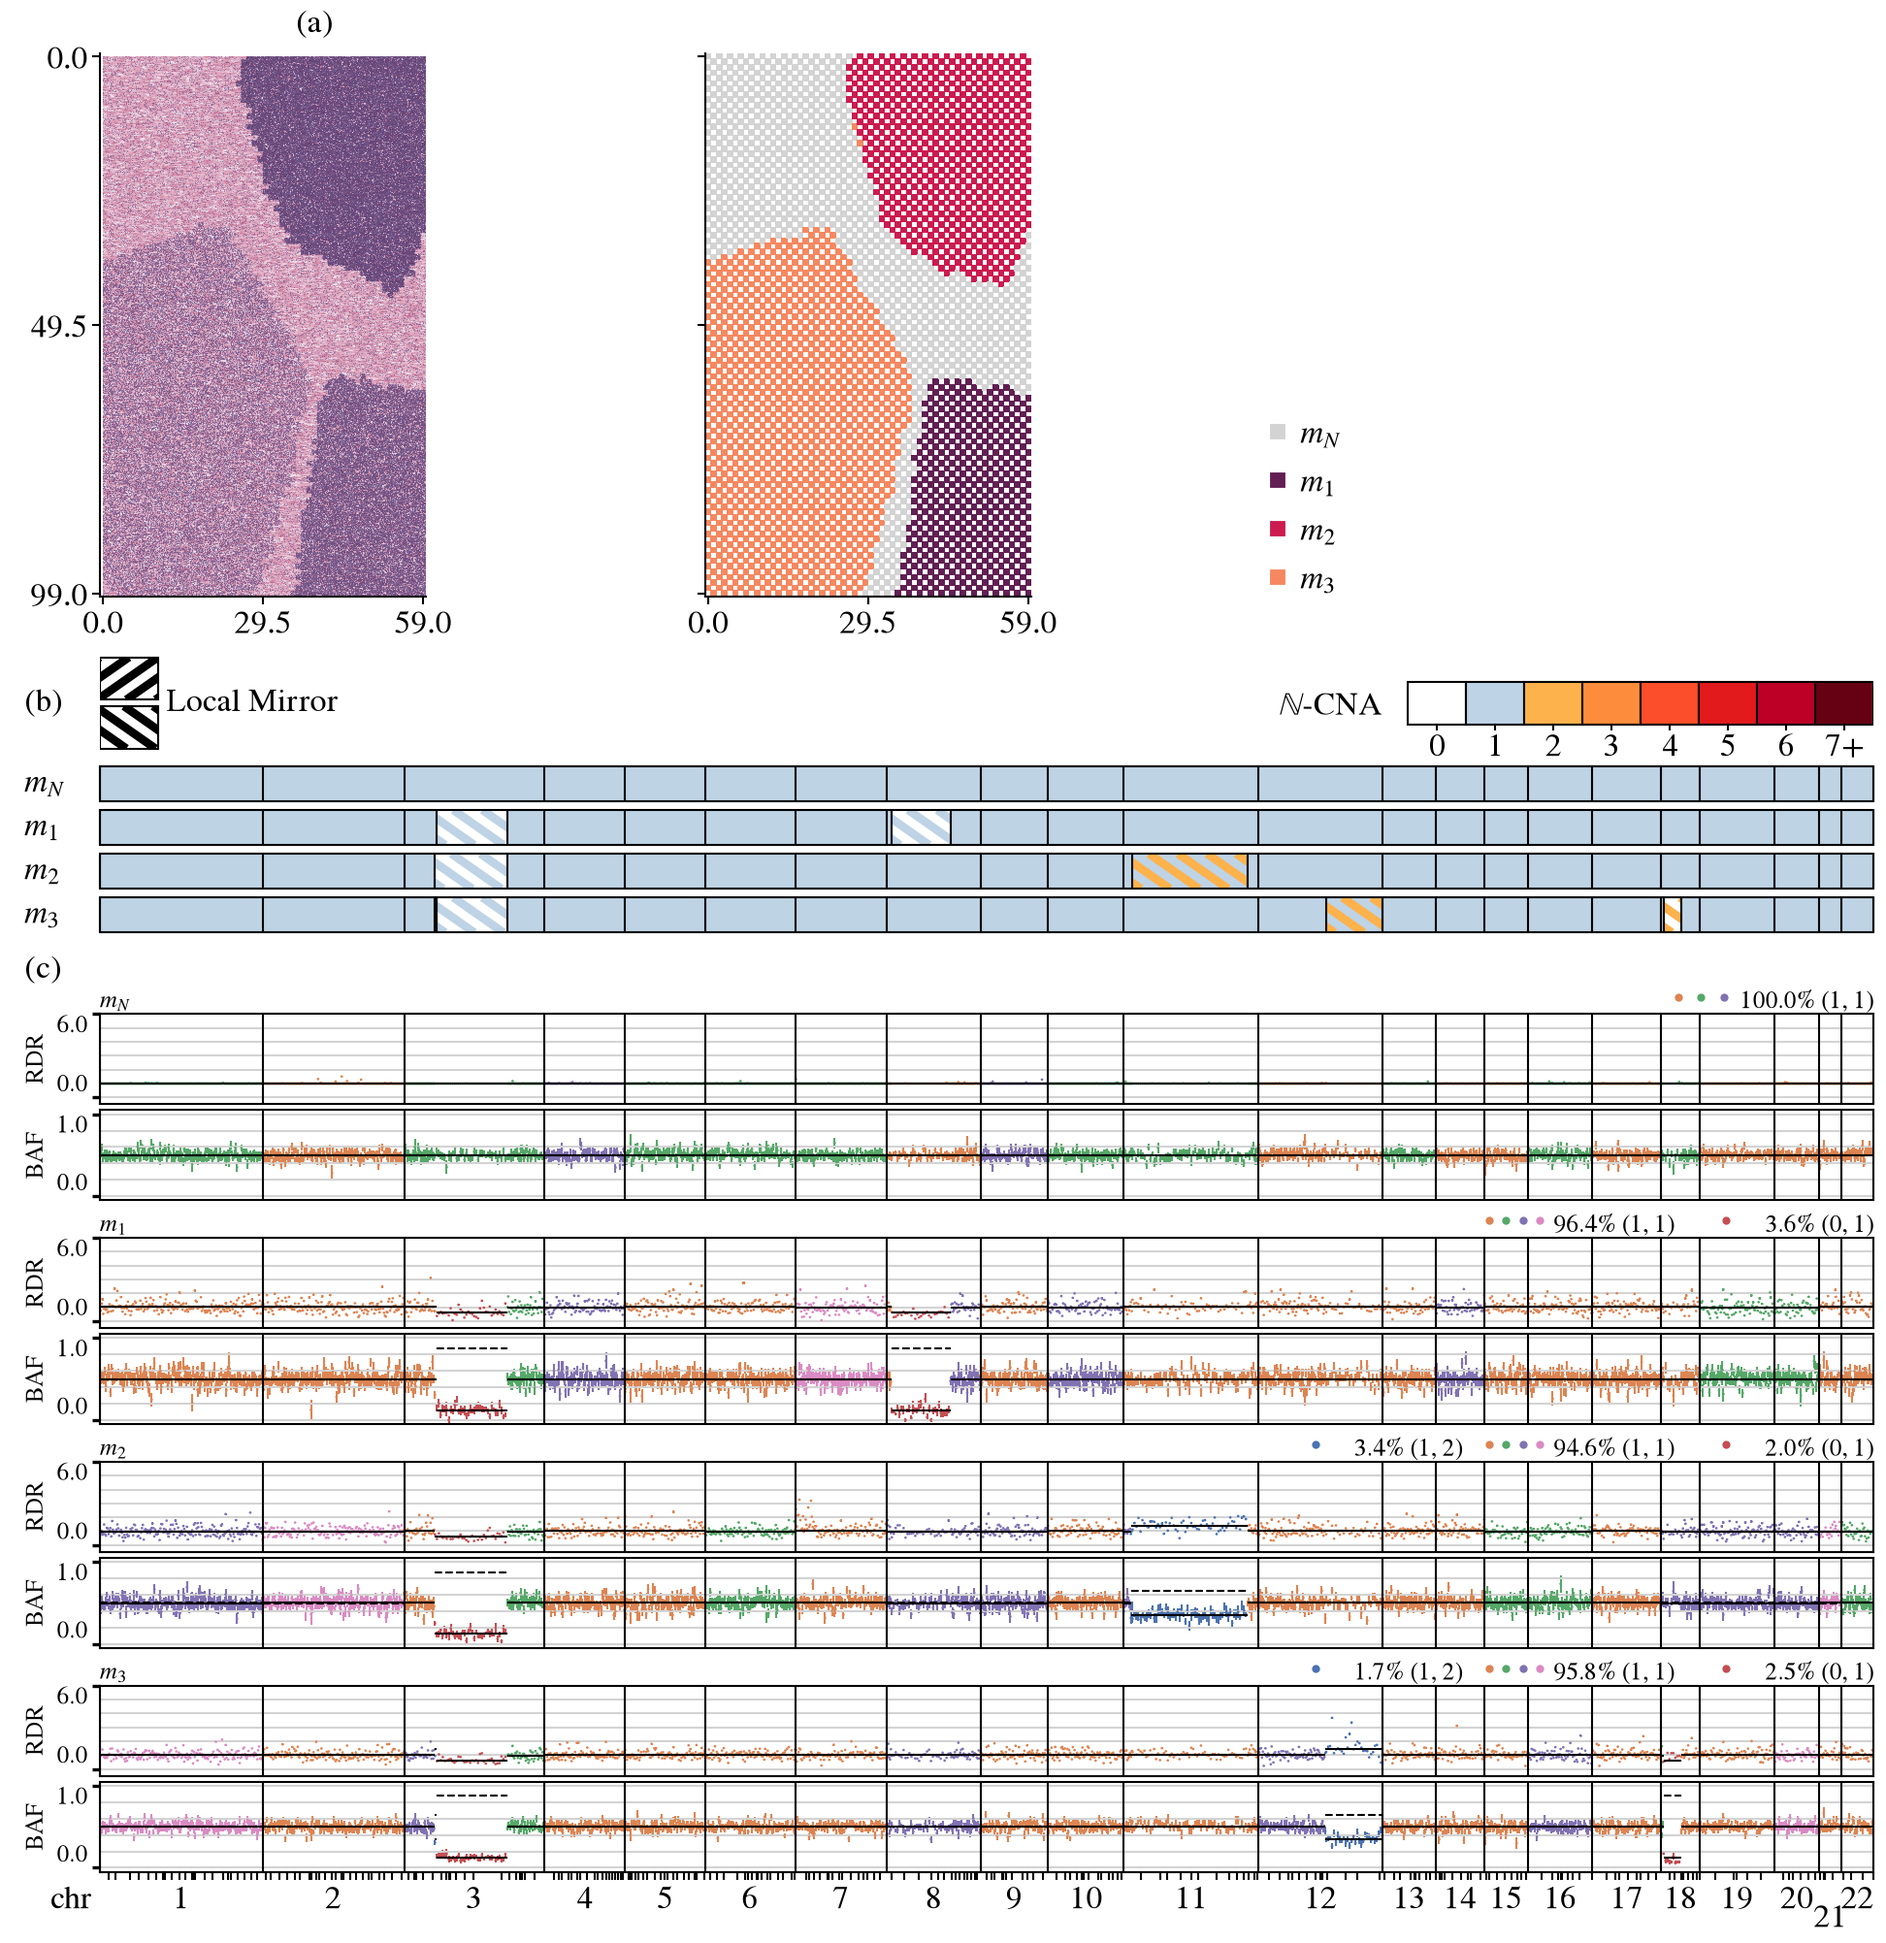
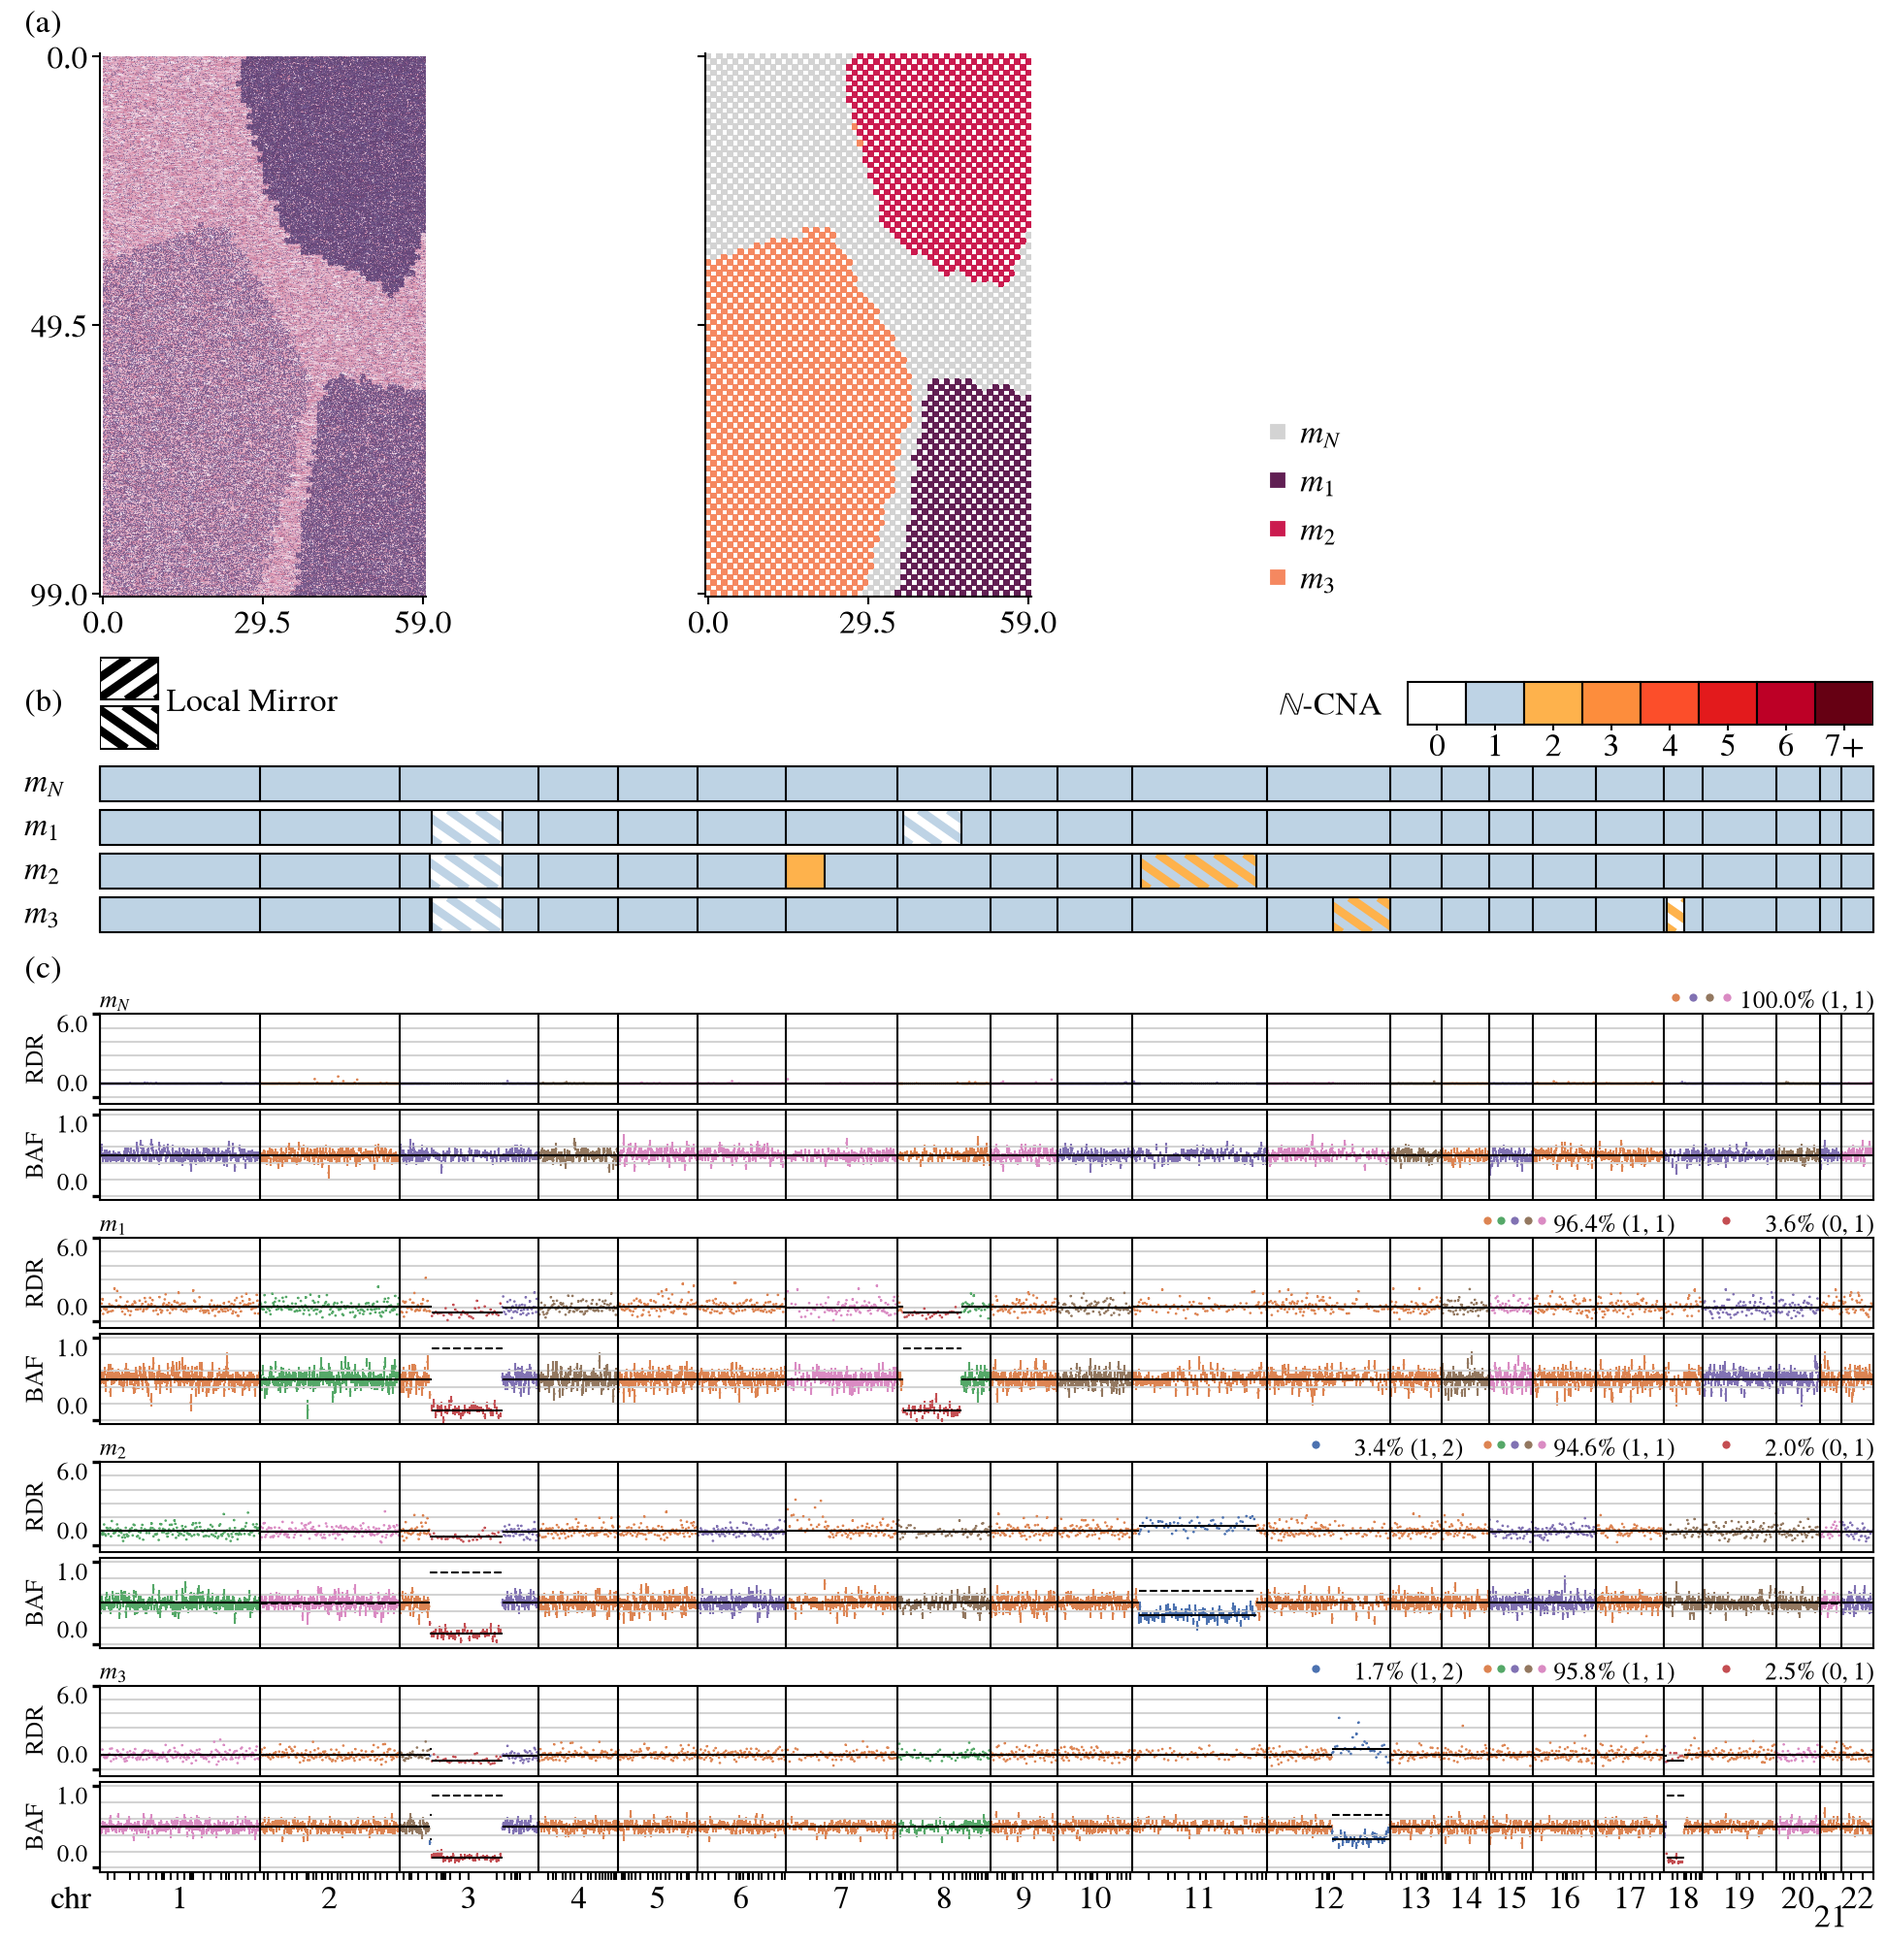
combined.png redrawn: (a)'s letter in (b)'s and (c)'s column; the stacked-page test follows the shift
Rendered at 2a6f426 (clean). The run reproduces clone ARI 0.9798; its copy
decode differs from the four runs before it (copy ARI pf 0.9730 against
0.9335) with no change on the run's path: #704's wall-clock budget, noted
there. test_the_combined_page_is_the_two_figures_stacked now holds (a) to
the spatial figure's size and height, one shift for both maps, and the
slide on the genomic axes' left edge.

Claude-Session: https://claude.ai/code/session_01JXaY8ogGJw3Lo2bAgEaAaH

diff --git a/tests/test_combined_figure.py b/tests/test_combined_figure.py
@@ -378,7 +378,8 @@ def test_the_combined_page_is_the_two_figures_stacked(
     (a) to (c).
 
     (a)'s slide and clones sit where the spatial figure puts them, to a
-    pixel, measured from the head: the page is the spatial figure over a
+    pixel, measured from the head, but for one shift across: the slide's left
+    edge on the genomic axes' (#745). The page is the spatial figure over a
     genomic one drawn the rest of the height.
     """
     import matplotlib.pyplot as plt
@@ -395,16 +396,23 @@ def test_the_combined_page_is_the_two_figures_stacked(
     )
     assert sorted(t.get_text() for t in combined.texts) == ["(a)", "(b)", "(c)"]
 
+    renderer = combined.canvas.get_renderer()
     placed = combined.get_axes()[-2:]
+    genomic = [ax for ax in combined.get_axes()[:-2] if ax.axison]
+    left = min(ax.get_window_extent(renderer).x0 for ax in genomic)
+    shifts = []
     for new, old in zip(placed, spatial.get_axes()[:2], strict=True):
-        here = new.get_window_extent(combined.canvas.get_renderer())
+        here = new.get_window_extent(renderer)
         there = old.get_window_extent(spatial.canvas.get_renderer())
         head = combined.bbox.height - spatial.bbox.height
+        shifts.append(here.x0 - there.x0)
         np.testing.assert_allclose(
-            (here.x0, here.y0 - head, here.width, here.height),
-            there.bounds,
+            (here.y0 - head, here.width, here.height),
+            (there.y0, there.width, there.height),
             atol=1.0,
         )
+    assert shifts[0] == pytest.approx(shifts[1], abs=1.0)
+    assert placed[0].get_window_extent(renderer).x0 == pytest.approx(left, abs=1.0)
 
     plt.close(combined)
     plt.close(spatial)

diff --git a/docs/plots/paper/README.md b/docs/plots/paper/README.md
@@ -1,11 +1,11 @@
 # Paper figures: dev_tree_1s_easy r0 (7ba9b01f)
 
 **TL;DR:** clone ARI 0.9798, copy ARI (phase-free)
-0.9335, exact altered (phase-free)
-0.8992 (phased 0.1473), from one
+0.9730, exact altered (phase-free)
+0.9729 (phased 0.2209), from one
 `run_cnaster_port --sal --png-copies` run on `sim/manifests/dev_tree_1s_easy.toml` r0 at
-code `05419ba`: 187 s wall, 3.42 GB peak.
-Ledger `run_id` `05419ba-dev_tree_1s_easy_r0-0146` (`docs/metrics/`, fixture `dev_tree_1s_easy_r0` `7ba9b01f`).
+code `2a6f426`: 192 s wall, 3.42 GB peak.
+Ledger `run_id` `2a6f426-dev_tree_1s_easy_r0-0433` (`docs/metrics/`, fixture `dev_tree_1s_easy_r0` `7ba9b01f`).
 
 Regenerate from a clean tree, so the commit above carries no `+`; it draws r0 into
 `.cache/paper_figures/` where `--draw` is not given, and refuses any r0 not
@@ -18,7 +18,7 @@ headline figures alone (#745); every other page the run draws (the truth's panel
 the run's own pages, cnaster's copies and the truth-against-fit comparisons) is
 written under `.cache/plots/paper/` and regenerated on demand (`curate`). The figures
 carry no stamp (#743): `truth_combined.png` and `combined.png` are `dev_tree_1s_easy` r0
-`7ba9b01f` at code `05419ba`, as above. `combined.png` draws panel (a) on a slide
+`7ba9b01f` at code `2a6f426`, as above. `combined.png` draws panel (a) on a slide
 mocked from the planted labels (`port.sim.he_slide`): the fixture has no H&E image,
 and the run never reads the mock. `solver_combined.png` is not drawn from this fixture:
 `--solvers POTTS.record COPY.record` draws it from a `port.studies.potts_stream` and a
